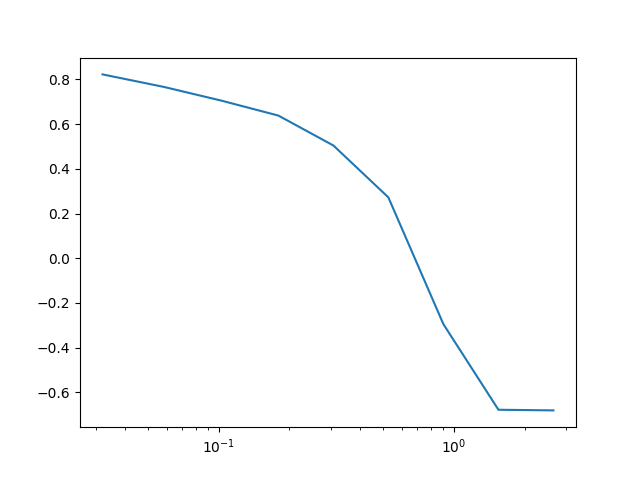
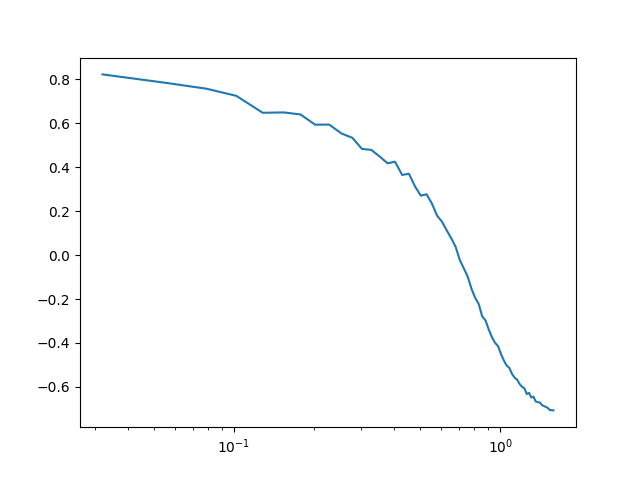
Modification

diff --git a/exam/exam_CrossCor.py b/exam/exam_CrossCor.py
@@ -6,15 +6,15 @@ from TideRec import CrossCor
 from scipy.fft import fftn, ifftn
 import matplotlib.pyplot as plt
 
-BoxSize = 125.0
-NMesh = 128
+BoxSize = 250.0
+NMesh = 256
 
 MyRec = Rec(BoxSize = BoxSize, NMesh = NMesh)
-MyRec.Read(mode = 'binary', path = './exam_data/Ng128_Density.bin')
+MyRec.Read(mode = 'binary', path = './exam_data/Ng256_Density.bin')
 MyRec.AutoRec(mode ='5term', sigma = 1)
 
-MyCor = CrossCor(Rec = MyRec, path = './exam_data/Ng128_Density.bin')
-MyCor.setbin(style = 'linear')
+MyCor = CrossCor(Rec = MyRec, path = './exam_data/Ng256_Density.bin')
+# MyCor.setbin(style = 'linear')
 n, k, rk = MyCor.Compute()
 if MyCor.rank == 0:
     plt.semilogx(k, rk)

diff --git a/TideRec/algorithms/Cal/Bin.py b/TideRec/algorithms/Cal/Bin.py
@@ -115,7 +115,6 @@ class Bin(RS):
         MPI_k = self.comm.reduce(k_bin, root = 0)
         
         if self.rank == 0 :
-            print(MPI_n)
             return MPI_n, MPI_k/MPI_n*self.Kf, MPI_Ak/MPI_n
         else:
             return None, None, None
